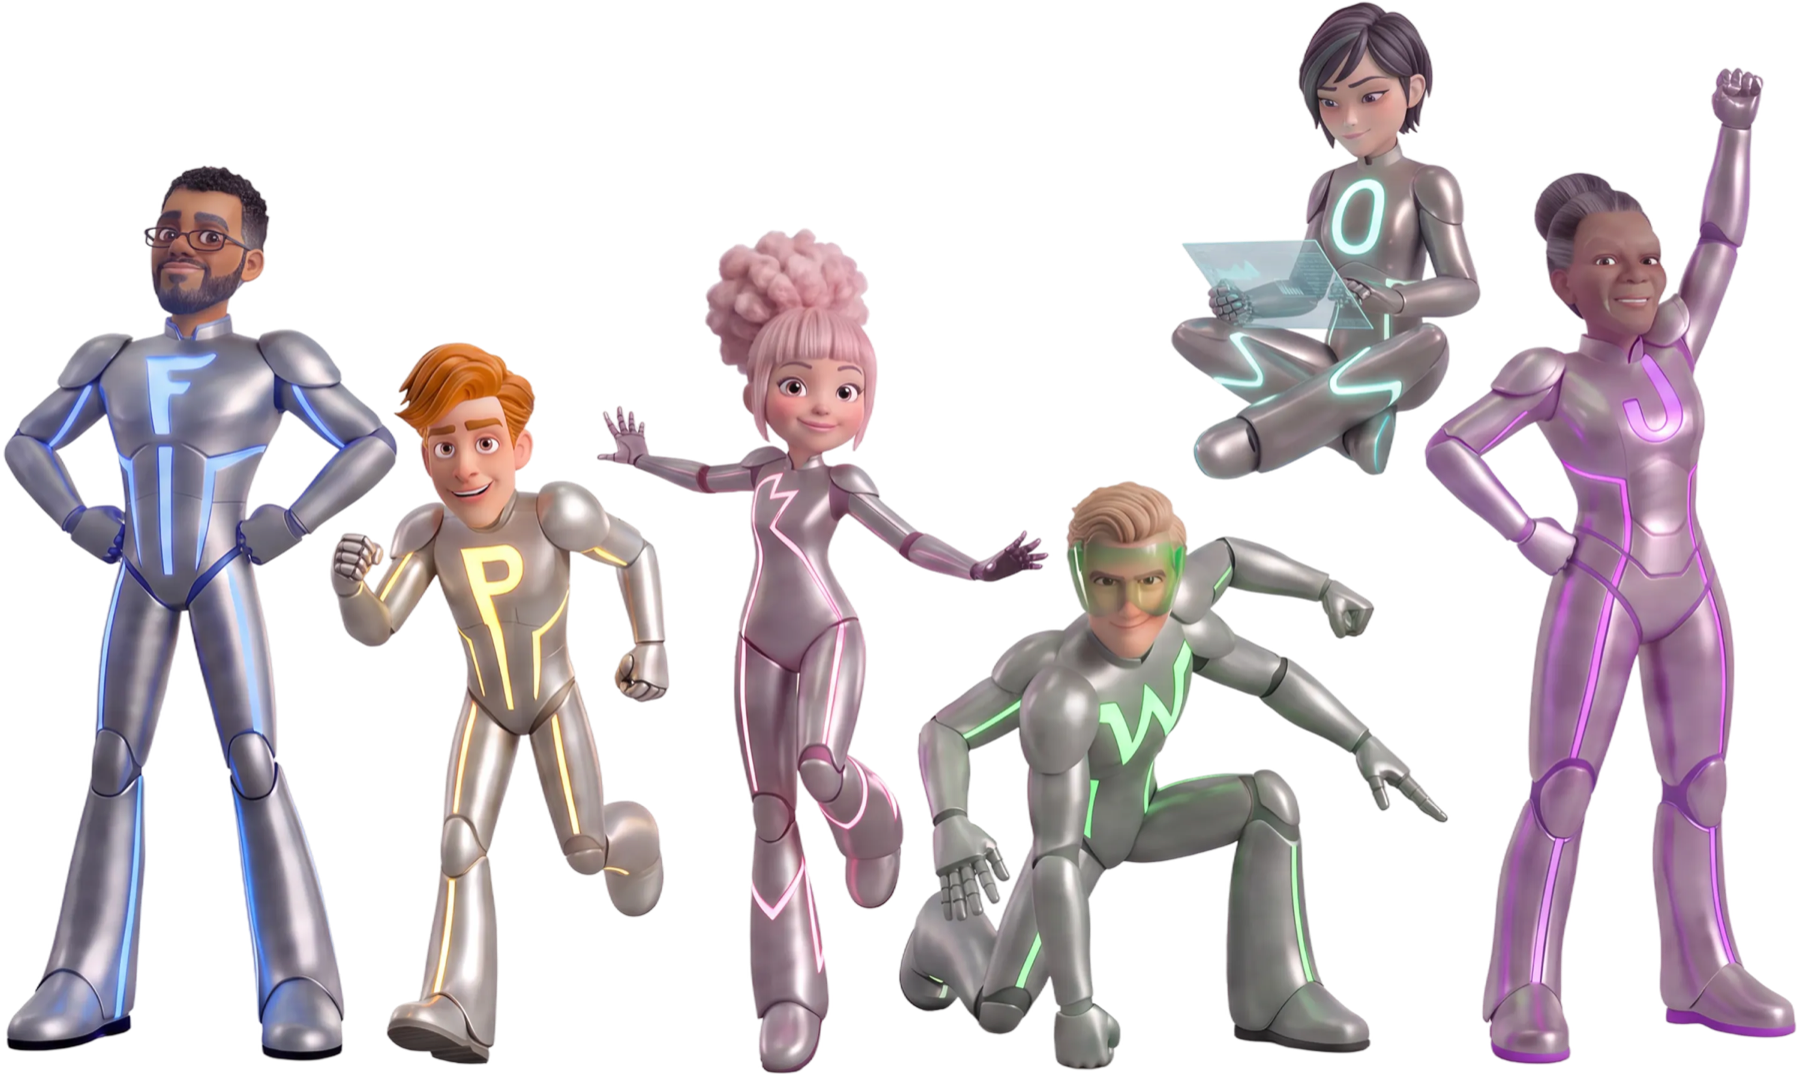
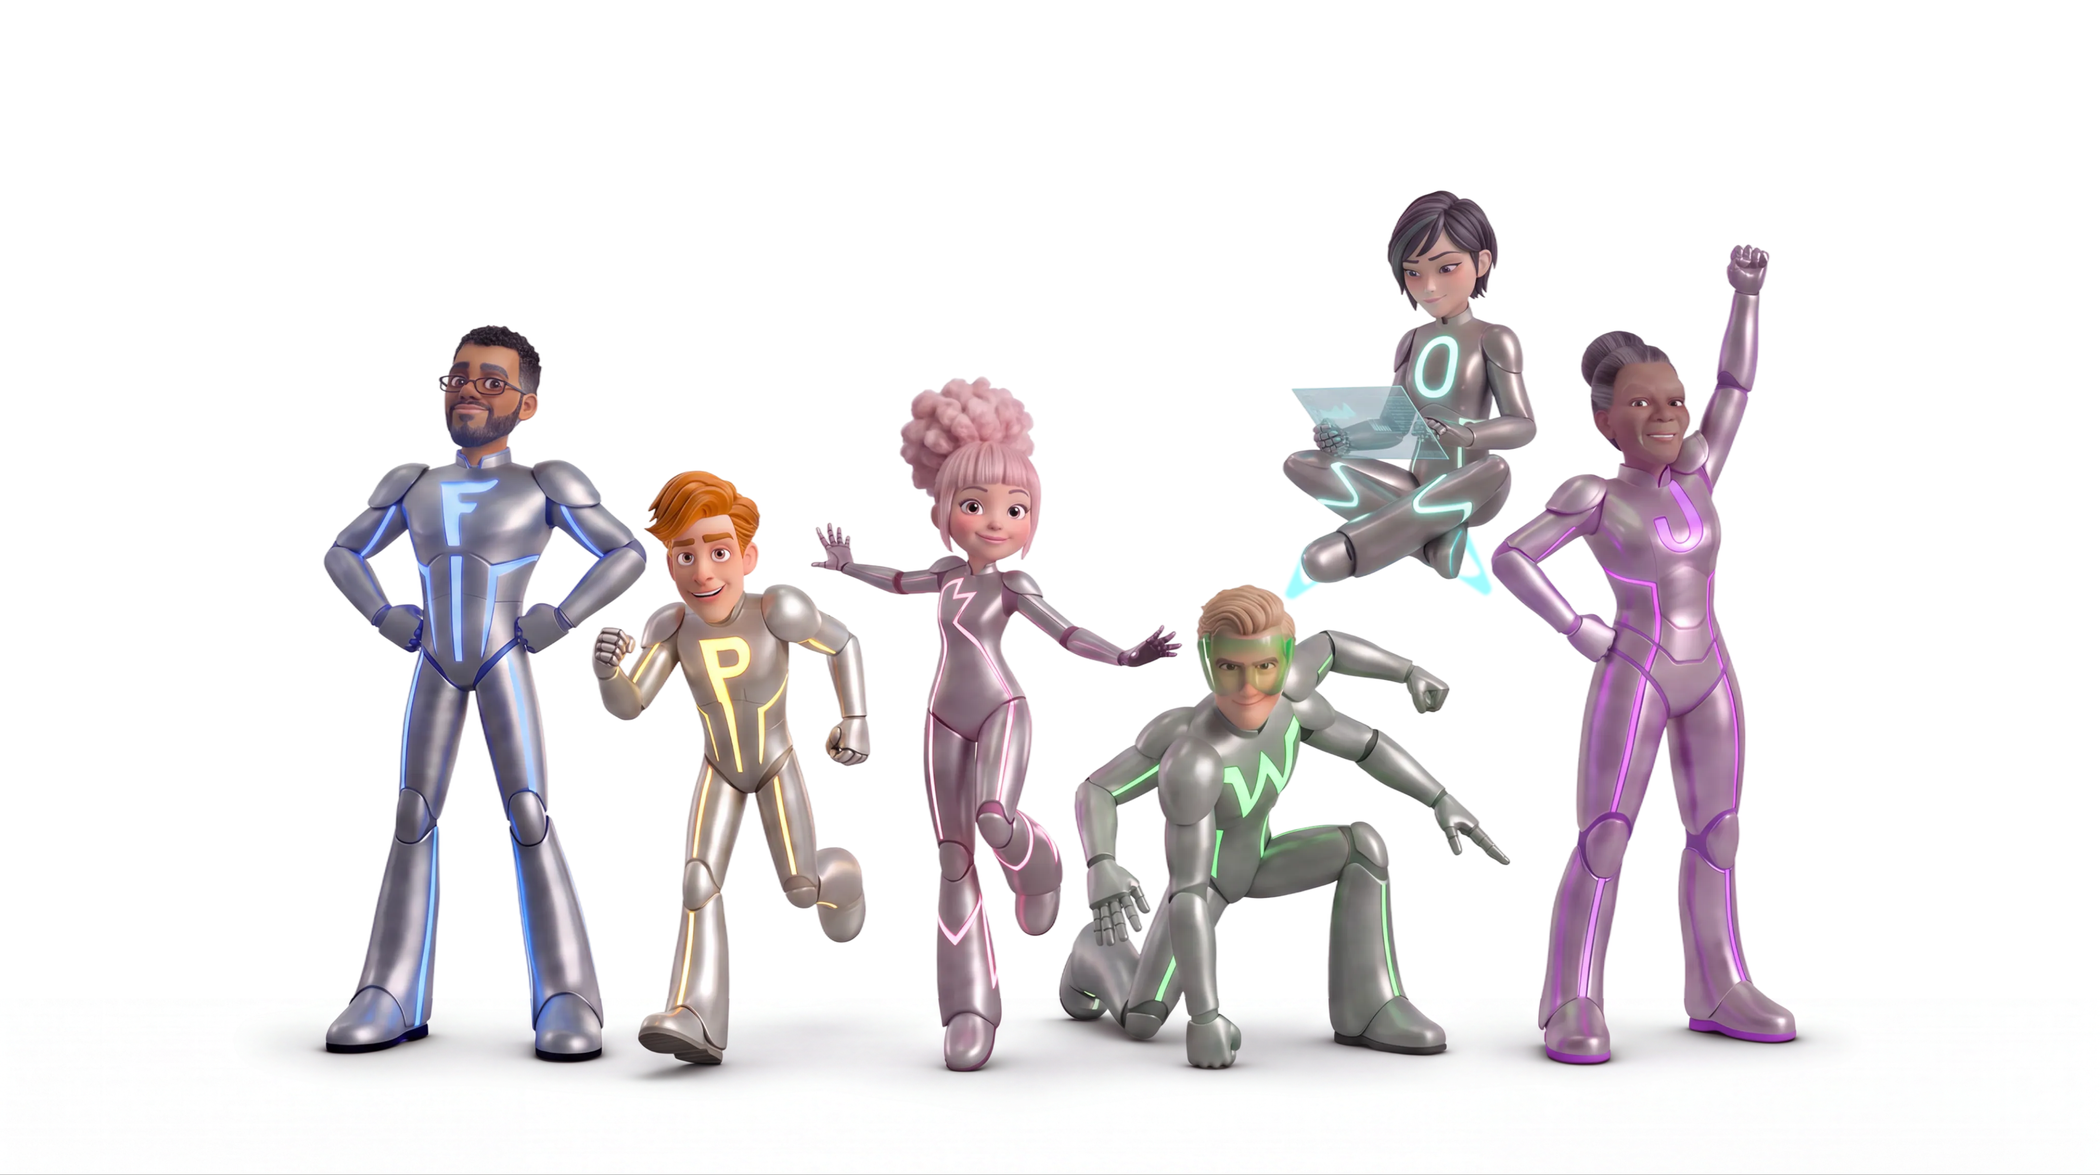
Hero /aprendizagem: personagens com sombra no chão e brilho da bota
Reexporta o grupo completo do Figma (personagens + fogo/brilho ciano da bota da
Opy + sombras no chão), que estavam faltando. Reposiciona (121.7% do card,
medido no Figma). Vale para todos os idiomas.

diff --git a/src/components/AprendizagemHero/AprendizagemHero.module.css b/src/components/AprendizagemHero/AprendizagemHero.module.css
@@ -57,13 +57,14 @@
   height: auto;
 }
 
-/* Largura e recuo medidos no Figma: os personagens ocupam 92% do card e
-   descem ~9% da altura dele abaixo da base. */
+/* Grupo do Figma (personagens + brilho da bota + sombras no chão). Medidas do
+   Figma: o grupo tem 121.7% da largura do card e começa 9.3% abaixo do topo
+   dele; a sombra transborda a base. */
 .characters {
   position: absolute;
   left: 50%;
-  bottom: -9%;
-  width: 92%;
+  top: 7%;
+  width: 121.73%;
   transform: translateX(-50%);
   pointer-events: none;
 }
@@ -118,7 +119,8 @@
   }
 
   .characters {
-    width: 96%;
-    bottom: -6%;
+    /* Acompanha o dashboard em tamanho natural (mesmo overflow do painel). */
+    width: 121.73%;
+    top: 8%;
   }
 }
